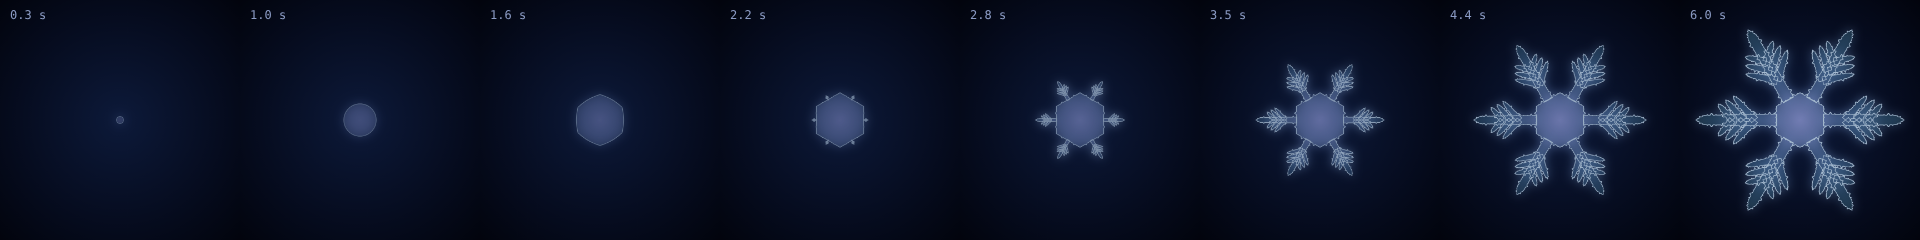
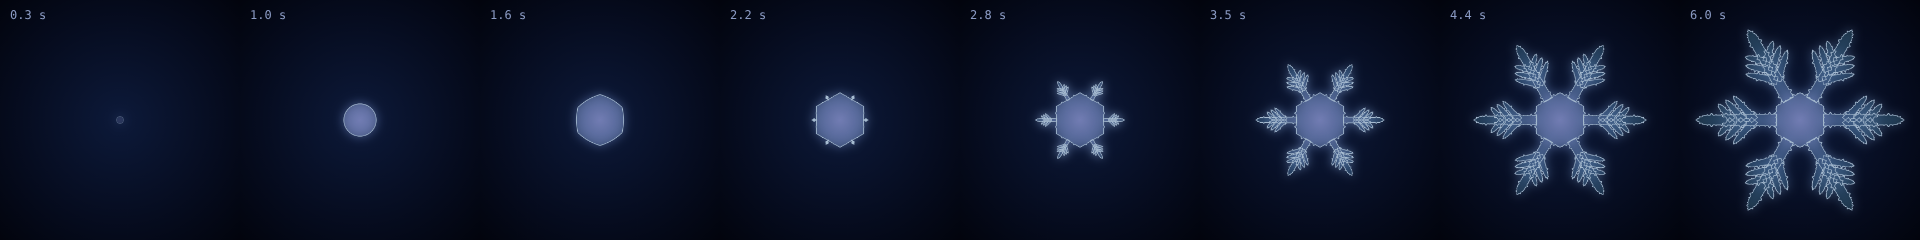
docs: describe the chaos cycle and add chaos screenshots
Claude-Session: https://claude.ai/code/session_01VQEgqJsmknEoff6SVQPg94

diff --git a/README.md b/README.md
@@ -8,7 +8,7 @@
 ▶ **デモ：<https://york-14.github.io/Design-portfolio-3/>**
 
 整数シード `n` から雪の結晶を決定的に生成し、
-「生成 → フラクタル拡大 → 縮小 → 次のシード」を無限に繰り返すアニメーション作品です。
+「点から成長 → 角が増え続けてカオスへ → 消滅 → 次のシード」を無限に繰り返すアニメーション作品です。
 
 [![seed #0012 と UI](docs/hero.png)](https://york-14.github.io/Design-portfolio-3/?seed=12)
 
@@ -118,15 +118,17 @@ $d \ge 18$ の中で、使う全軸が小さい分母の有理数から十分離
 
 ## アニメーション
 
-| フェーズ   | 内容                                            | 既定（秒・イージング） |
-| ---------- | ----------------------------------------------- | ---------------------- |
-| generate   | 点 → 六角形 → 腕が芽吹き、角が増えながら成長    | 6.0・easeInOutSine     |
-| zoomIn     | 全体像 → 自己相似の不動点                       | 4.5・easeInOutCubic    |
-| infinite   | 無限ズーム（自己相似周期 × 3 回）               | 3.2 / 周期・linear     |
-| zoomOut    | 全体像へ戻る                                    | 4.0・easeInOutCubic    |
-| fadeOut    | 成長を逆再生して点に戻り、不透明度 0.4 まで減光 | 2.6・easeInOutSine     |
-| transition | 点の状態で n → n+1（**ハイブリッド**）          | 1.6・easeInOutSine     |
+1 つのシードの一生（サイクル）は、既定では次の 3 フェーズです。
 
+| フェーズ | 内容                                                         | 既定（秒・イージング） |
+| -------- | ------------------------------------------------------------ | ---------------------- |
+| generate | 点 → 六角形 → 腕が芽吹き、角が増えながら成長                 | 6.0・easeInOutSine     |
+| chaos    | 再帰が深まり突起が鋭く長くなって、角が増え続けカオスへ近づく | 8.0・easeInQuad        |
+| dissolve | カオスの頂点で、広がり・ぼやけながら消滅                     | 2.4・easeOutQuad       |
+
+消滅しきると、次のシード（n+1）が点から成長を始めます。
+
+`?cycle=zoom` を付けると、代わりに無限ズームのサイクル（generate → zoomIn → infinite → zoomOut → fadeOut → transition）になります。
 設定は `src/animation/config.ts` にあります。
 
 ### 成長：点から結晶へ
@@ -143,7 +145,25 @@ $d \ge 18$ の中で、使う全軸が小さい分母の有理数から十分離
 収縮（fadeOut）はこの逆再生です。次のシードへの受け渡しは「点」の状態で行われ、色だけが移り変わります。
 テストでは、成長度を 0 → 1 と進めたとき、角数（20° 以上曲がる頂点の数）と外径がどちらも単調に増えることを検証しています。
 
-### 継ぎ目のない無限ズーム
+### カオスへ、そして消滅
+
+[![seed #0004 のカオスと消滅](docs/chaos.png)]({D}?seed=4&at=6)
+
+成長しきった結晶に、2 つの変化を同時に加えます（`src/animation/chaos.ts`）。
+
+- **角を増やす**：コッホとシェルピンスキーの再帰深さを、最大深さからさらに 2 段深めます。
+- **突起を鋭く長くする**：頂角を 28° へ、突起比率を広げ、突起の側辺を「元の線分の 0.36 倍以下」から 0.9 倍まで伸ばします。
+  0.36 倍は、普段は曲線が自分自身に折り重ならないよう抑えている上限です。これを越えると、輪郭は自己交差する密な絡まりへ変わっていきます。
+
+D6 対称性は最後まで保たれるので、「秩序あるカオス」になります。
+頂点で結晶は少し広がりながらぼやけ、透明になって消えます。
+
+[![カオスの頂点](docs/chaos-peak.png)]({D}?seed=4&at=13)
+
+鋭い突起は 1 段ごとにあまり縮まないため、画面上の長さによる打ち切り（LOD）だけでは線分数が 4^深さ で爆発します。
+そこで、全体が画面に収まっているときは「線分数の予算」から深さの上限を決めています（`maxSegments`）。
+
+### 継ぎ目のない無限ズーム（`?cycle=zoom`）
 
 不動点 P の周りで自己相似比 s の図形は、「深さ d+1 をズーム s·z で見た絵」が「深さ d をズーム z で見た絵」と一致します。
 そこで深さをズームに連動させます。
@@ -165,7 +185,7 @@ $$
 ズーム量 $z_0$ は、画面の外接円がこの近傍に収まるように選びます。
 テストでは、継ぎ目の前後で実際に生成した頂点集合を双方向に比較しています。
 
-### ハイブリッド遷移
+### ハイブリッド遷移（`?cycle=zoom`）
 
 | パラメータ                                 | 遷移のしかた                                                |
 | ------------------------------------------ | ----------------------------------------------------------- |
@@ -223,14 +243,15 @@ npm run preview
 | `?seed=42`                             | シード指定（再生中も URL が追従） |
 | `&at=11`                               | タイムラインの 11 秒目から開始    |
 | `&paused=1`                            | 一時停止状態で開始                |
+| `&cycle=chaos\|zoom`                   | サイクル（既定はカオス → 消滅）   |
 | `&transition=hybrid\|crossfade\|morph` | 遷移方式                          |
 | `&hud=0`                               | HUD を隠す                        |
 
-## 無限ズームのスナップショット
+## 無限ズームのスナップショット（`?cycle=zoom`）
 
-| コッホ先端（×2/(1−m)）                                                                           | シェルピンスキー中心（×2）                                                                                    |
-| ------------------------------------------------------------------------------------------------ | ------------------------------------------------------------------------------------------------------------- |
-| [![Koch zoom](docs/zoom-koch.png)](https://york-14.github.io/Design-portfolio-3/?seed=7&at=10.5) | [![Sierpinski zoom](docs/zoom-sierpinski.png)](https://york-14.github.io/Design-portfolio-3/?seed=21&at=10.5) |
+| コッホ先端（×2/(1−m)）                                                                                      | シェルピンスキー中心（×2）                                                                                               |
+| ----------------------------------------------------------------------------------------------------------- | ------------------------------------------------------------------------------------------------------------------------ |
+| [![Koch zoom](docs/zoom-koch.png)](https://york-14.github.io/Design-portfolio-3/?seed=7&at=10.5&cycle=zoom) | [![Sierpinski zoom](docs/zoom-sierpinski.png)](https://york-14.github.io/Design-portfolio-3/?seed=21&at=10.5&cycle=zoom) |
 
 ## 構成
 
@@ -239,7 +260,7 @@ src/
   seed/        golden.ts（φ・Vogel・R_d）, params.ts（範囲定義）, seedToParams.ts
   fractal/     geometry.ts, koch.ts, sierpinski.ts, symmetry.ts（D6）, growth.ts（成長）,
                sector.ts（1/12 セクター）, snowflake.ts（対称化・カリング）, render.ts
-  animation/   easing.ts, config.ts, timeline.ts, infiniteZoom.ts, transition.ts, perf.ts
+  animation/   easing.ts, config.ts, timeline.ts, chaos.ts, infiniteZoom.ts, transition.ts, perf.ts
   ui/          controls.ts（HUD）, query.ts（URL）
   main.ts
 tests/         Vitest（決定性・範囲・一様性・D6 不変性・継ぎ目・遷移・ガバナー ほか）
